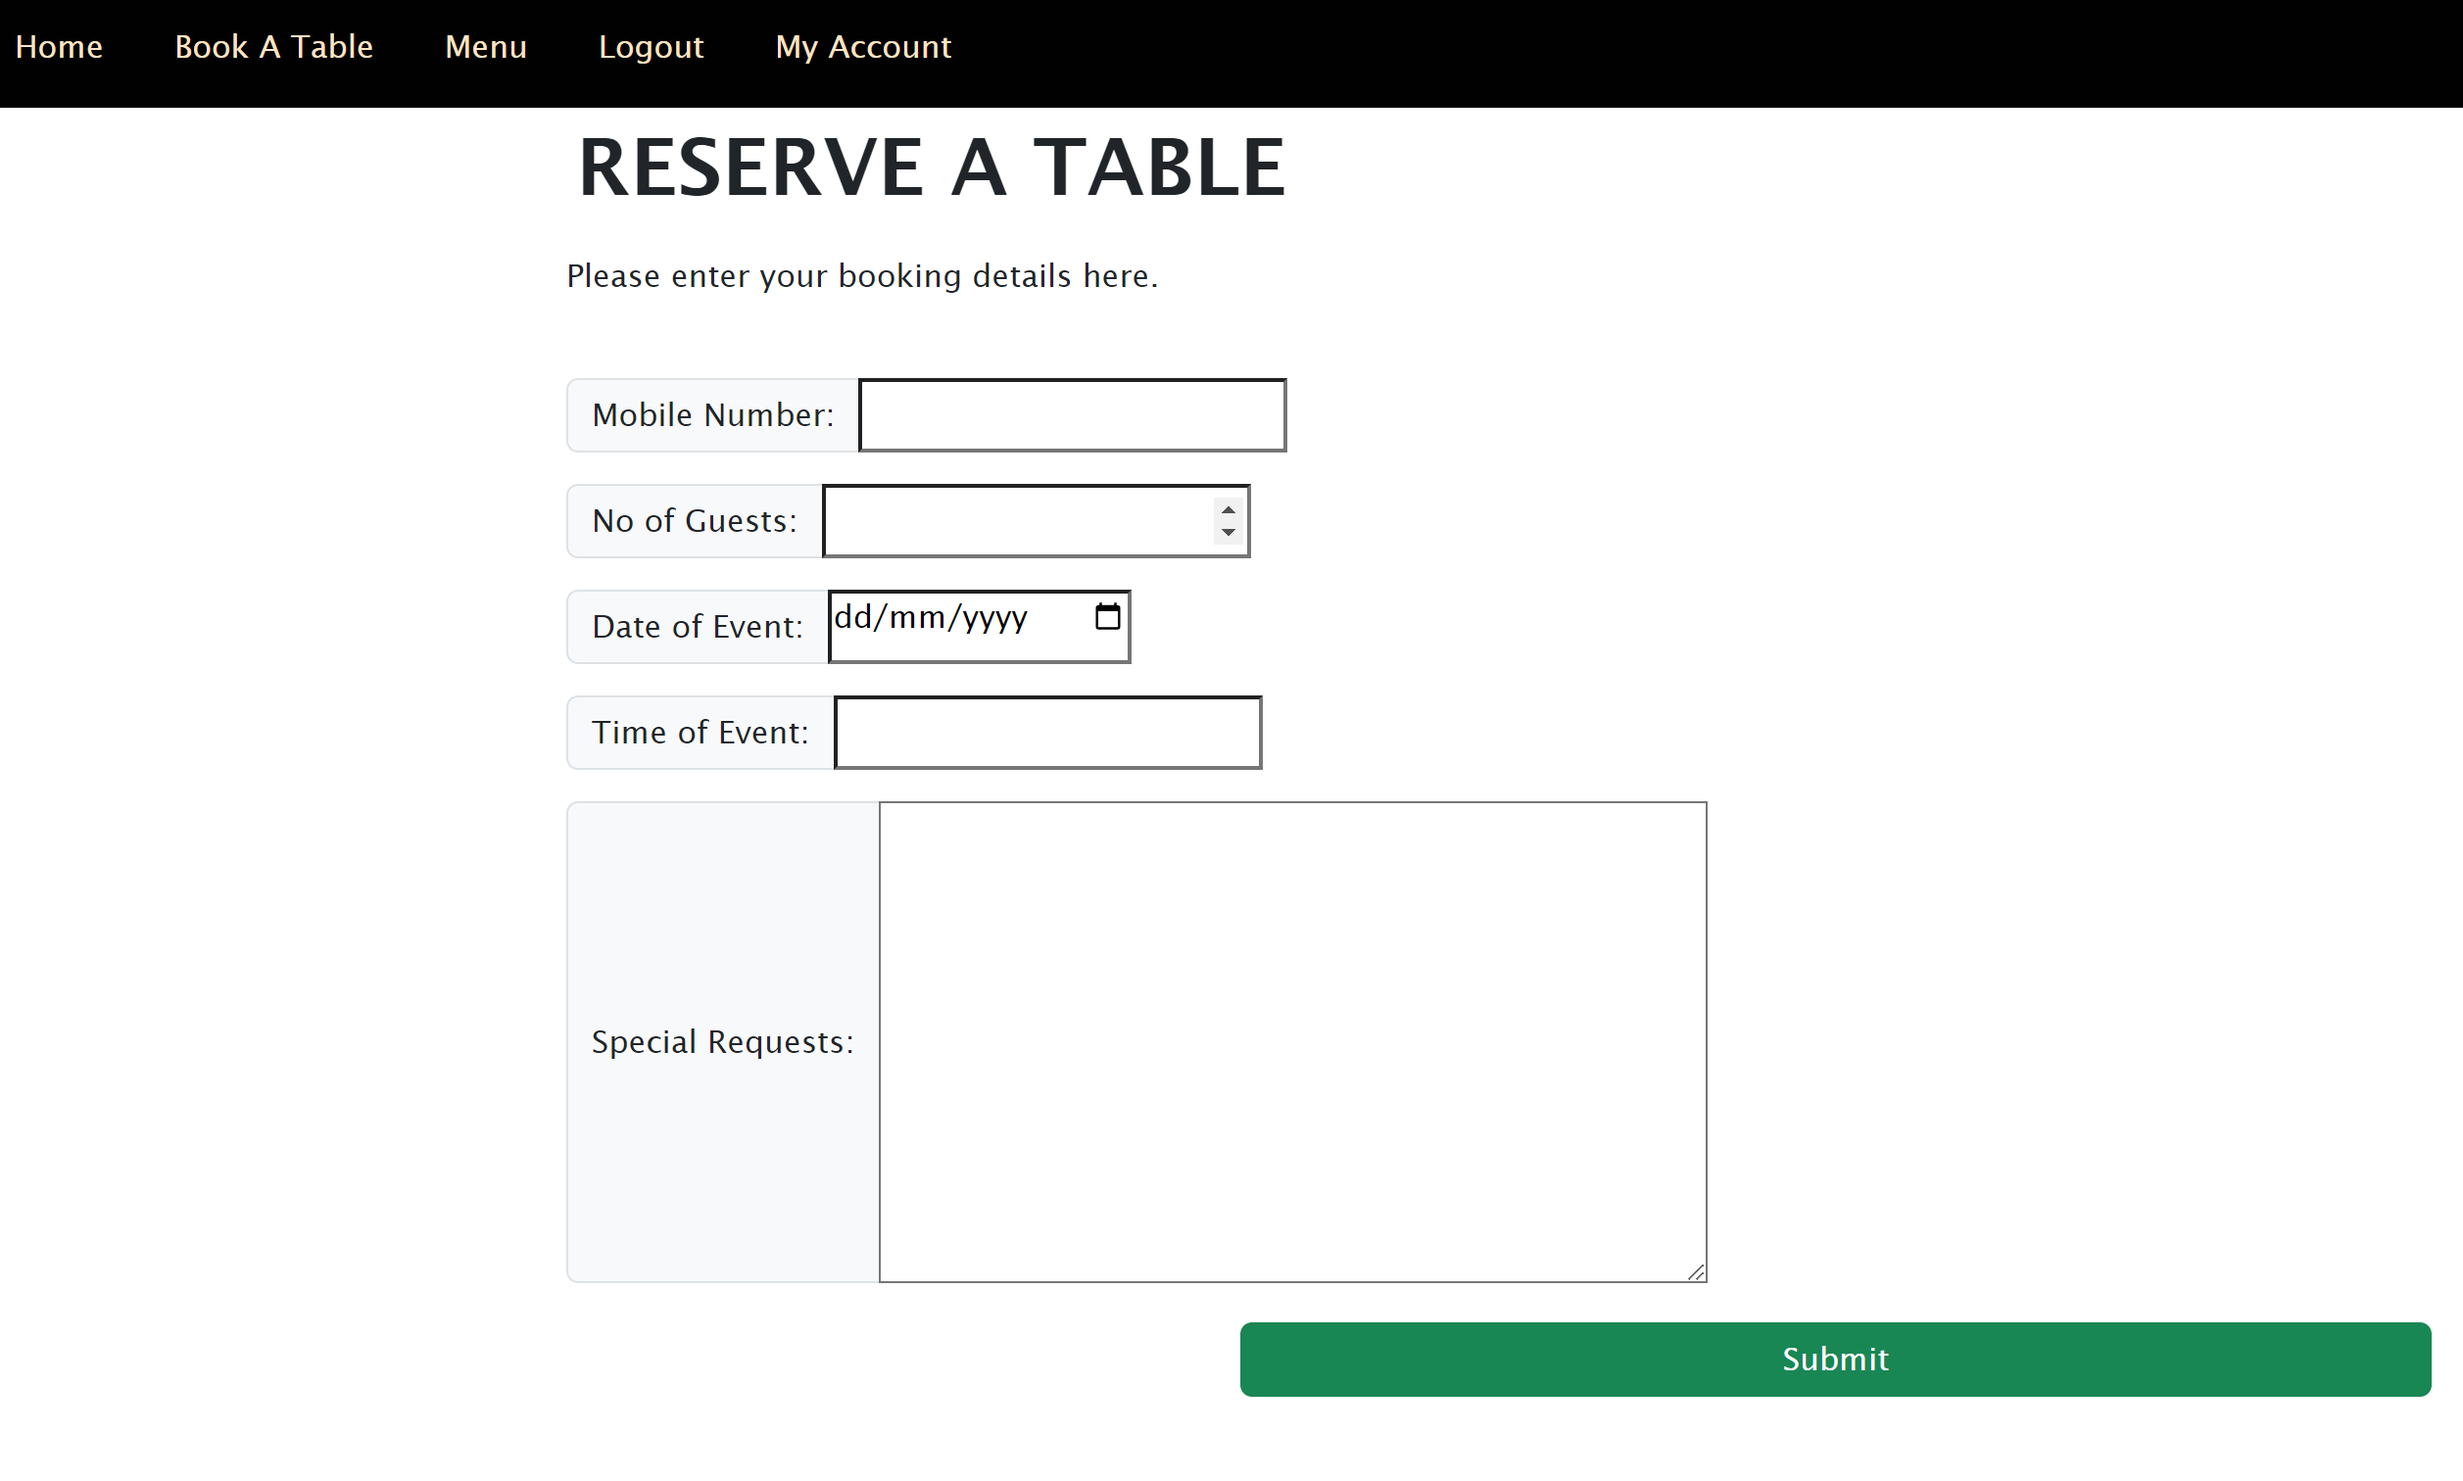
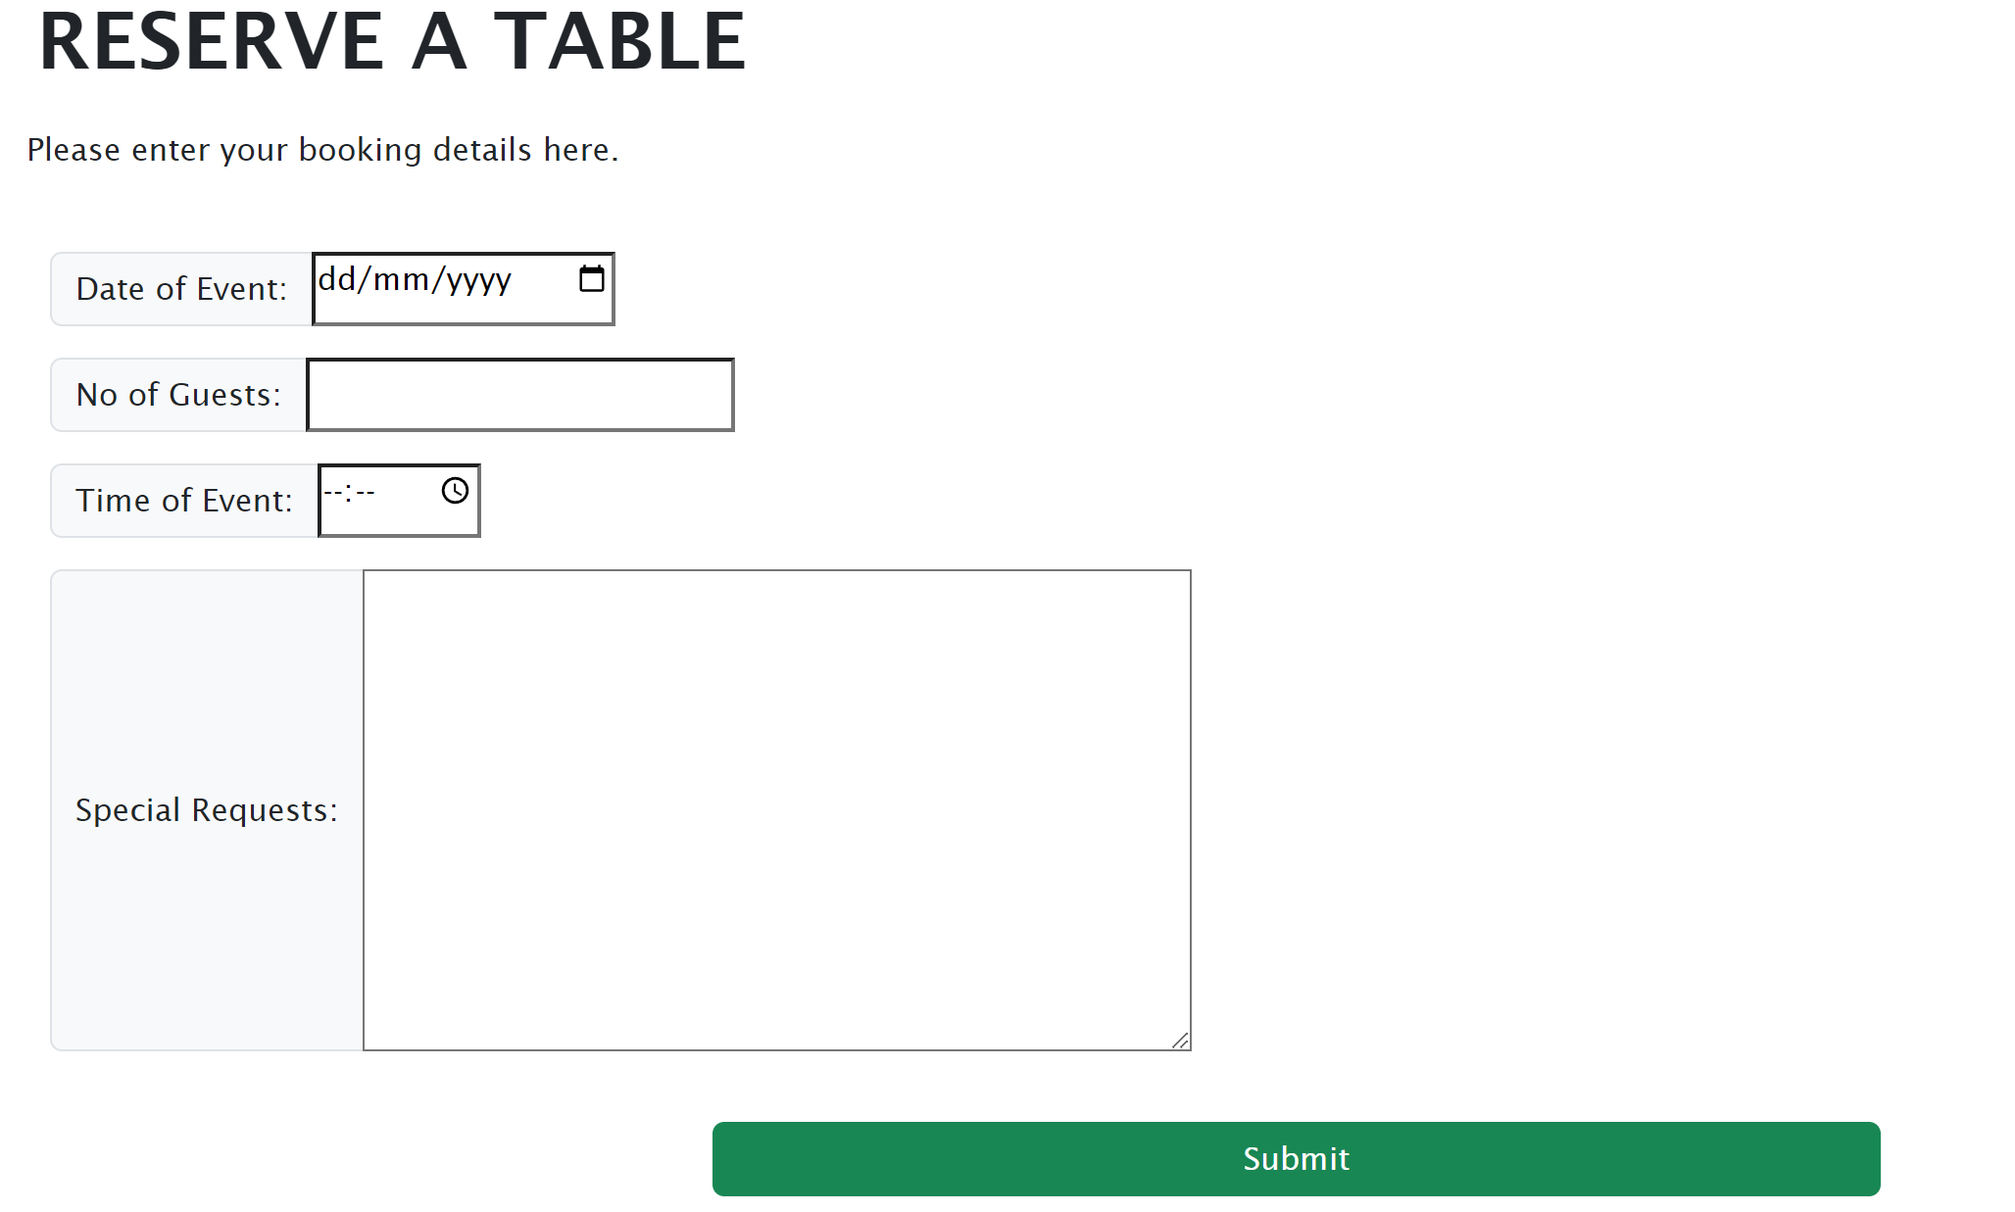
Fix bug for backgroundimage

diff --git a/templates/menu.html b/templates/menu.html
@@ -11,7 +11,7 @@
   <div class="row row-cols-1 row-cols-md-3 row-cols-lg-4 g-4">
     <div class="col-sm-6 mb-3 mb-sm-0">
       <div class="card h-100" style="width: 18rem;">
-        <img src="../static/img/starters.jpg" class="card-img-top" alt="A food starter image">
+        <img src="{% static 'img/starters.jpg' %}" class="card-img-top" alt="A food starter image">
         <div class="card-body">
           <h5 class="card-title">Starters</h5>
           <p class="card-text">-Punjabi Samosas</p>
@@ -23,7 +23,7 @@
     </div>
     <div class="col-sm-6">
       <div class="card h-100" style="width: 18rem;">
-        <img src="../static/img/staples.jpg" class="card-img-top" alt="A plate of chappathi">
+        <img src="{% static 'img/staples.jpg'%}" class="card-img-top" alt="A plate of chappathi">
         <div class="card-body">
           <h5 class="card-title">Daily Staples</h5>
           <p class="card-text">- Basmati Rice</p>
@@ -35,7 +35,7 @@
     </div>
     <div class="col-sm-6">
       <div class="card h-100" style="width: 18rem;">
-        <img src="../static/img/dhabas.jpg" class="card-img-top" alt="A plate of chappathi">
+        <img src="{% static 'img/dhabas.jpg' %}" class="card-img-top" alt="A plate of chappathi">
         <div class="card-body">
           <h5 class="card-title">Everyday Dhaba</h5>
           <p class="card-text">- Kerala Nandan Chicken</p>
@@ -47,7 +47,7 @@
     </div>
     <div class="col-sm-6">
       <div class="card h-100" style="width: 18rem;">
-        <img src="../static/img/gulab.jpg" class="card-img-top" alt="A plate with three gulab jamuns ">
+        <img src="{% static 'img/gulab.jpg' %}" class="card-img-top" alt="A plate with three gulab jamuns ">
         <div class="card-body">
           <h5 class="card-title">Sweets</h5>
           <p class="card-text">- Gulab Jamun</p>

diff --git a/templates/reserve.html b/templates/reserve.html
@@ -17,31 +17,31 @@
         </ul>
         {% endif %}
         <div class="messages container-sm">
-        {% if message %}
-           <strong>{{ message }}</strong> 
+            {% if message %}
+            <strong>{{ message }}</strong>
         </div>
         {% endif %}
     </div>
     <br>
     <!-- booking model form -->
-    <form method="POST" enctype="multipart/form-data" onsubmit="return validation()" action="{% url 'booking' %}">
+    <form method="POST" enctype="multipart/form-data" onsubmit="return validation()" action="{% url 'reserve' %}">
         {% csrf_token %}
         {{ form.errors }}
         <div class="container-sm">
             <div class="sub-content">
                 <div class="input-group mb-3">
-                    <div class="input-group mb-3">
-                        <span class="input-group-text">Date of Event:</span>
-                        {{ form.date }}
-                    </div>
+                    <span class="input-group-text">Date of Event:</span>
+                    {{ form.date }}
+                </div>
+                <div class="input-group mb-3">
                     <span class="input-group-text">No of Guests:</span>
                     {{ form.number_of_guests }}
-                </div>               
+                </div>
                 <div class="input-group mb-3">
                     <span class="input-group-text">Time of Event:</span>
                     {{ form.time }}
                 </div>
-                <div class="input-group">
+                <div class="input-group mb-3">
                     <span class="input-group-text">Special Requests:</span>
                     {{ form.special_request }}
                 </div>

diff --git a/templates/base.html b/templates/base.html
@@ -9,10 +9,11 @@
   <meta name="viewport" content="width=device-width, initial-scale=1.0">
   <link href="https://cdn.jsdelivr.net/npm/bootstrap@5.3.0-alpha3/dist/css/bootstrap.min.css" rel="stylesheet"
     integrity="sha384-KK94CHFLLe+nY2dmCWGMq91rCGa5gtU4mk92HdvYe+M/SXH301p5ILy+dN9+nJOZ" crossorigin="anonymous">
-  <link href="{% static '/styles.css' %}" rel="stylesheet">
+  <link href="{% static 'styles.css' %}" rel="stylesheet">
   <title>Thali Restaurant</title>
 </head>
 
+<!-- body -->
 <body class="wrapper">
   <!-- navbar -->
   <nav class="navbar navbar-expand-lg">
@@ -27,7 +28,7 @@
             <a class="nav-link" href="{% url 'index' %}">Home</a>
           </li>
           <li class="nav-item">
-            <a class="nav-link" href="{% url 'booking' %}">Book A Table</a>
+            <a class="nav-link" href="{% url 'reserve' %}">Book A Table</a>
           </li>
           <li class="nav-item">
             <a class="nav-link" href="{% url 'menu' %}">Menu</a>
@@ -52,7 +53,7 @@
       </div>
     </div>
   </nav>
-  <!-- Body Content  -->
+  <!-- Main Content  -->
   {% block body %}
   {% endblock %}
 </body>

diff --git a/templates/index.html b/templates/index.html
@@ -20,7 +20,7 @@
 <hr>
 <div class="container">
   <div class="tableimg">
-    <img class="img1" src="static/img/dinner.jpg" alt="A cartoon of ordering online">
+    <img class="img1" src="{% static 'img/dinner.jpg' %}" alt="A restaurant image of few seats">
   </div>
   <!-- info div -->
   <div class="info">
@@ -35,7 +35,7 @@
     <p>Sundays and Mondays</p>
     <p>For both lunch and dinner,we take bookings for parties of 1 to 6.</p>
     <p>Private dining room parties of 6 to 10.</p>
-    <a href="{% url 'booking' %}" class="btn btn-success" role="button">Book a Table</a>
+    <a href="{% url 'reserve' %}" class="btn btn-success" role="button">Book a Table</a>
   </div>
 </div>
 <hr>

diff --git a/static/styles.css b/static/styles.css
@@ -32,7 +32,7 @@ body {
   display: flex;
   align-items: center;
   justify-content: center;
-  background: url('img/thali.jpg') no-repeat center center fixed;
+  background: url(https://res.cloudinary.com/dwzqzspmh/image/upload/v1683042012/static/img/thali.5d001f788b61.webp) no-repeat center center fixed;
   -webkit-background-size: cover;
   -moz-background-size: cover;
   -o-background-size: cover;

diff --git a/templates/myaccount.html b/templates/myaccount.html
@@ -3,7 +3,7 @@
 <div>
     <div class="container-sm topper">
         <h2>My Booking Details</h2>
-        <button class="btn btn-info justify-content-end"> <a href="{% url 'booking' %}">Add a Booking</a></button>
+        <button class="btn btn-info justify-content-end"> <a href="{% url 'reserve' %}">Add a Booking</a></button>
     </div>
     <!-- error message -->
     <div class="container-sm">

diff --git a/restaurant/views.py b/restaurant/views.py
@@ -1,19 +1,29 @@
 from django.shortcuts import render,redirect, get_object_or_404
-from .models import *
-from django.http import HttpResponse, HttpResponseRedirect
+from django.db import IntegrityError
+from django.http import HttpResponseRedirect
 from django.contrib.auth.decorators import login_required
 from django.contrib.auth import authenticate, login, logout
 from django.urls import reverse
 from django.contrib import messages
+from .models import Booking,User,BookingForm
 
 # Create your views here.
 def index(request):
+    """ 
+    View home page
+    """
     return render(request,'index.html')
 
 def menu(request):
+    """ 
+    View menu page
+    """
     return render(request,'menu.html')
 
 def login_view(request):
+    """ 
+    Login to the page using username and password
+    """
     if request.method == "POST":
 
         # Attempt to sign user in
@@ -25,20 +35,22 @@ def login_view(request):
         if user is not None:
             login(request, user)
             return HttpResponseRedirect(reverse("myaccount"))
-        else:
-            return render(request, "login.html", {
-                "message": "Invalid username and/or password."
-            })
-    else:
-        return render(request, "login.html")
-
+        return render(request, "login.html", {
+                "message": "Invalid username and/or password."}) 
+    return render(request, "login.html")
 
 def logout_view(request):
+    """ 
+    Logout of page
+    """
     logout(request)
     return HttpResponseRedirect(reverse("index"))
 
 
 def register(request):
+    """ 
+    User can register using email and password
+    """
     if request.method == "POST":
         username = request.POST["username"]
         email = request.POST["email"]
@@ -61,49 +73,61 @@ def register(request):
             })
         login(request, user)
         return HttpResponseRedirect(reverse("booking"))
-    else:
-        return render(request, "register.html")
+    return render(request, "register.html")
 
 
 @login_required
-def booking(request):
+def reserve(request):
+    """
+    Create bookings after user login
+    """
     if request.method == "POST":
         form = BookingForm(request.POST,request.FILES)
         if form.is_valid():
             booking=form.save(commit=False)
             booking.name= request.user
            # Check for overlapping bookings
-            existing_bookings = Booking.objects.filter(date=booking.date, 
-            time=booking.time,name=request.user)  
+            existing_bookings = Booking.objects.filter(date=booking.date,
+                                                       time=booking.time,name=request.user)  
             if existing_bookings.exists():
-                messages.error(request, 'The selected date and time is already booked. Please select a different date and time.')
+                messages.error(request, 'The selected date and time is already booked.'
+                                        'Please select a different date and time.')
             else:
-            # Save the booking if there are no overlaps
+                # Save the booking if there are no overlaps
                 booking.save()
                 messages.success(request, 'Booking created successfully.')
                 return redirect('myaccount')
     else:
         form = BookingForm()
-    return render(request, 'booking.html', {'form': form})
+    return render(request, 'reserve.html', {'form': form})
 
 @login_required
 def myaccount(request):
+    """
+    Gets user account page with all the bookings made by user
+    """
     user = request.user
     bookings = Booking.objects.filter(name=user)
     return render(request, 'myaccount.html', {'bookings': bookings})
 
 @login_required
 def edit_booking(request,booking_id):
+    """
+    Edit the bookings already made
+    """
     booking = get_object_or_404(Booking, id=booking_id, name=request.user)
     form = BookingForm(instance=booking)
     if request.method == 'POST':
         form = BookingForm(request.POST, instance=booking)
         if form.is_valid():
             # Check for overlapping bookings
-            existing_bookings = Booking.objects.filter(date=form.cleaned_data['date'], time=form.cleaned_data['time'],name=request.user)
+            existing_bookings = Booking.objects.filter(date=form.cleaned_data['date'], 
+                                                       time=form.cleaned_data['time'],
+                                                       name=request.user)
             for existing_booking in existing_bookings:
                 if booking.id != existing_booking.id:
-                    messages.error(request, 'The selected date and time is already booked. Please select a different date and time.')
+                    messages.error(request, 'The selected date and time is already booked.'\
+                                            'Please select a different date and time.')
                     return redirect(reverse('edit_booking', args=[booking_id]))
 
             # Save the booking if there are no overlaps
@@ -115,10 +139,13 @@ def edit_booking(request,booking_id):
         'form': form,
         'booking': booking,
     }
-    return render(request, 'edit_booking.html', context)    
+    return render(request, 'edit_booking.html', context)
 
 @login_required
 def delete_booking(request, booking_id):
+    """
+    Delete the booking
+    """
     booking = get_object_or_404(Booking, pk=booking_id,name=request.user)
     booking.delete()
     messages.success(request, 'Booking deleted successfully.')

diff --git a/restaurant/models.py b/restaurant/models.py
@@ -28,8 +28,10 @@ class BookingForm(forms.ModelForm):
         fields=['number_of_guests','date','time','special_request',]
         widgets = {
             'date': DateInput(attrs={'type': 'date','min': datetime.today().strftime('%Y-%m-%d')}),
-            'time': TimeInput(attrs={'type': 'time'})
+            'time': TimeInput(attrs={'type': 'time'})      
         }
-    
+    def __init__(self, *args, **kwargs):
+        super().__init__(*args, **kwargs)
+        self.fields['time'].widget.attrs.update({'min': time(12, 0).strftime('%H:%M'), 'max': time(22, 0).strftime('%H:%M')})
 
 

diff --git a/thalirestaurant/settings.py b/thalirestaurant/settings.py
@@ -28,7 +28,7 @@ TEMPLATES_DIR = os.path.join(BASE_DIR, 'templates')
 SECRET_KEY = os.environ.get('SECRET_KEY')
 
 # SECURITY WARNING: don't run with debug turned on in production!
-DEBUG = False
+DEBUG = True
 
 X_FRAME_OPTIONS = 'SAMEORIGIN '
 
@@ -142,7 +142,7 @@ USE_TZ = True
 
 STATIC_URL = '/static/'
 STATICFILES_STORAGE = 'cloudinary_storage.storage.StaticHashedCloudinaryStorage'
-STATICFILES_DIRS = [os.path.join(BASE_DIR,'static')]
+STATICFILES_DIRS = [os.path.join(BASE_DIR,'static'),]
 STATIC_ROOT = os.path.join(BASE_DIR, 'staticfiles')
 
 MEDIA_URL = '/media/'

diff --git a/restaurant/urls.py b/restaurant/urls.py
@@ -4,7 +4,7 @@ from django.urls import path, include
 
 urlpatterns = [
     path('',index,name='index'),
-    path('booking/',booking,name="booking"),
+    path('reserve/',reserve,name="reserve"),
     path('myaccount/',myaccount,name="myaccount"),
     path("accounts/login/", login_view, name="login"),
     path("accounts/logout/", logout_view, name="logout"),

diff --git a/README.md b/README.md
@@ -165,7 +165,7 @@ The technology used in this website is :
    - Fixed a bug that  only shows the calendar dates of  future available dates by adding DateInput widget.
    - Fixed a bug that shows only the available time of the restaurant for booking by adding TimeInput widget.
    - Couldnt able to copy the libraries of allauth,as the lib directory is not available.so fixed it by manually typing authentication code in views.py.
-  
+   - Was unable to push code in Heroku.Forgot to run python3  manage.py collectstatic.Fixed bug with help of code institute tutor. 
 
 ### Supported Browsers
   - Compatible to Google Chrome.
